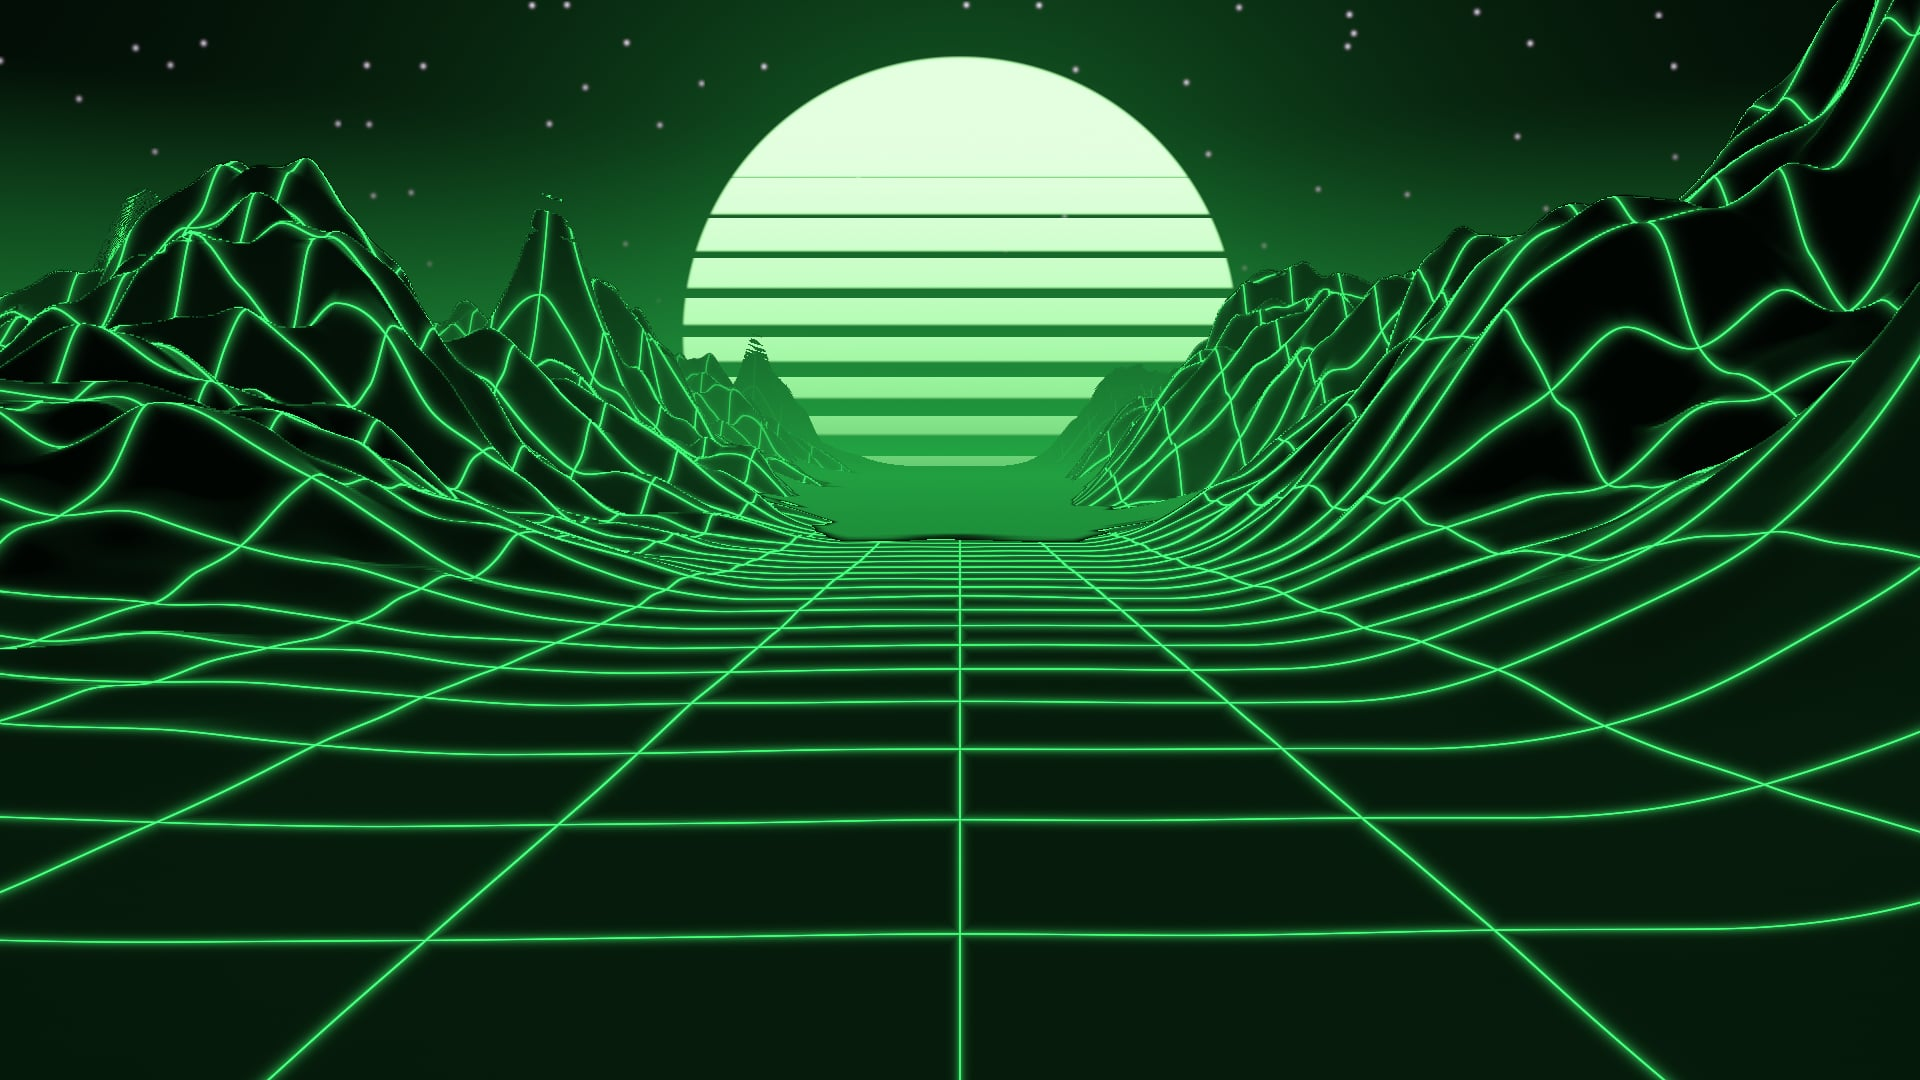
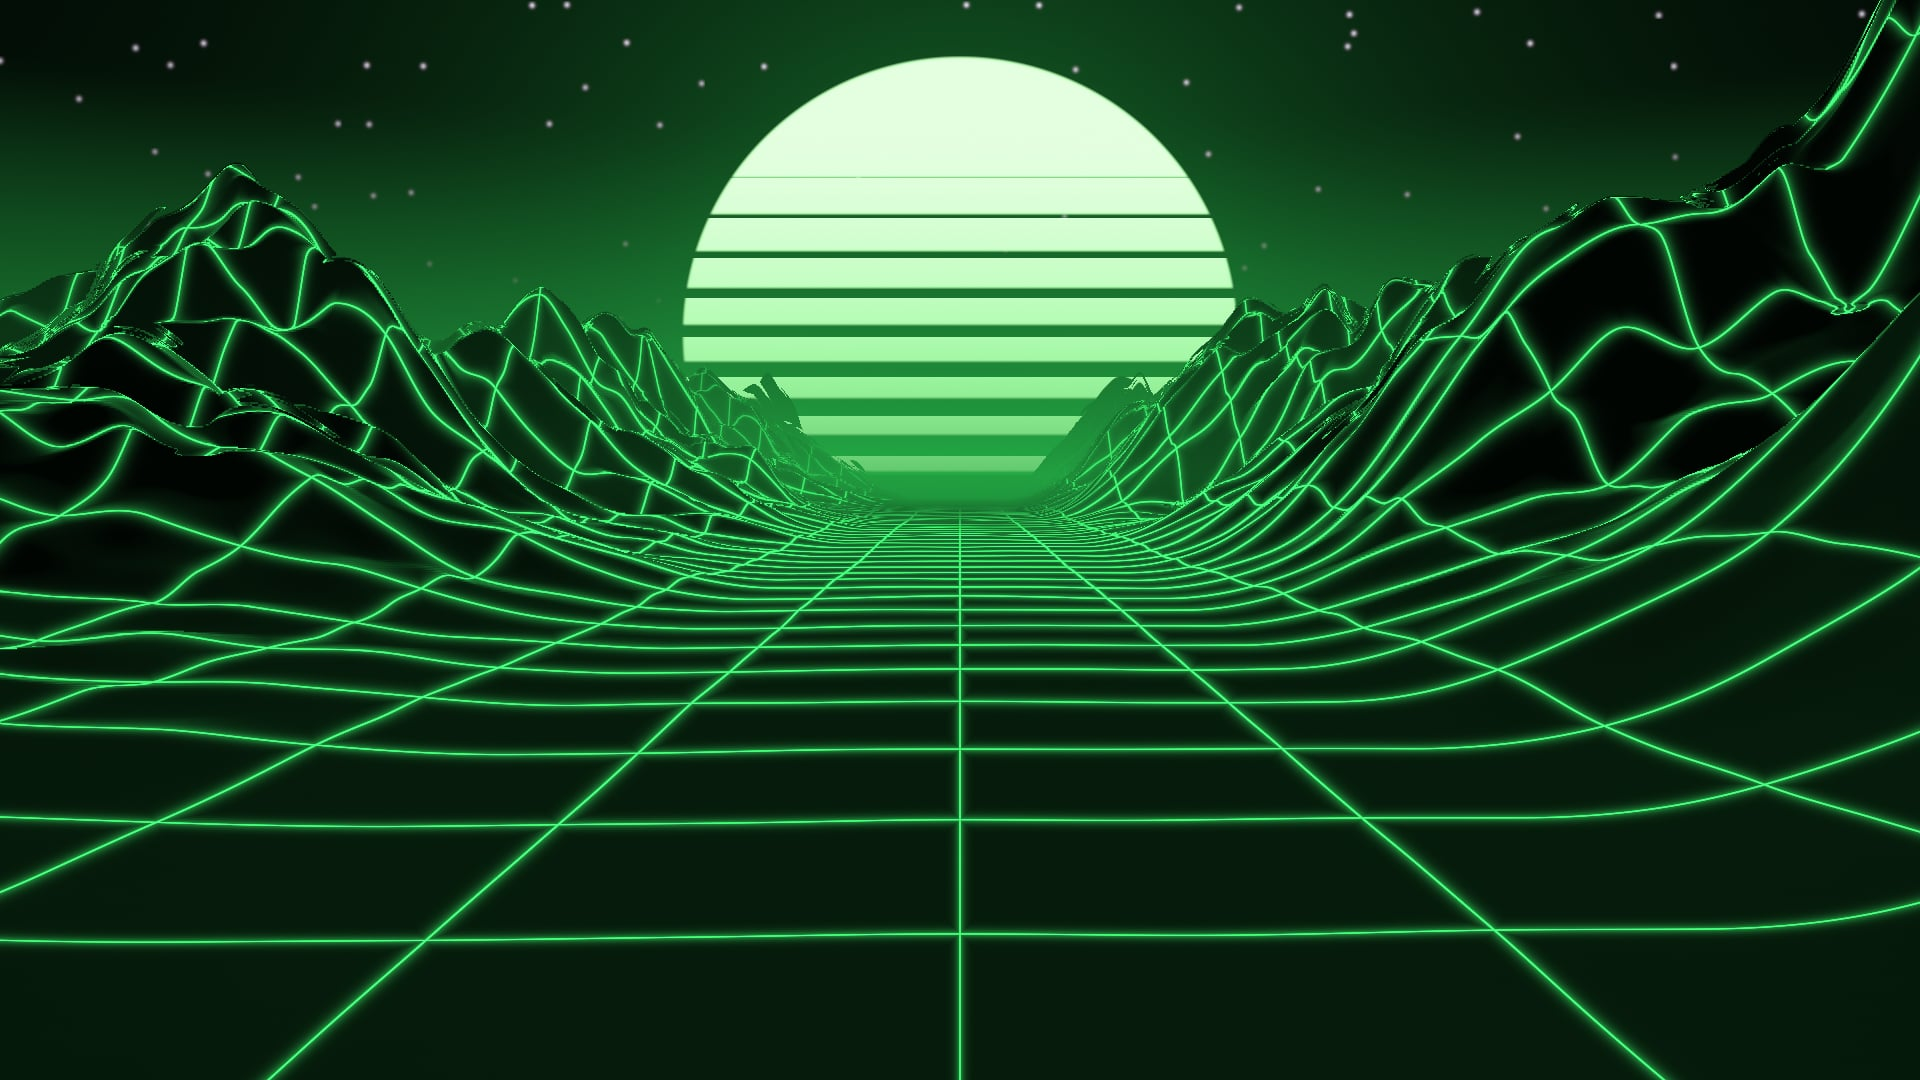
fix(live): Grid Run reaches the far valley and hazes it without a seam

diff --git a/src/live/scenes/grid-run.ts b/src/live/scenes/grid-run.ts
@@ -132,6 +132,9 @@ vec3 scene(vec2 uv) {
   vec3 col = sky(rd);
   float hMax = u_relief * 2.2 + 0.1;
   const float FAR = 75.0;
+  // Haze is complete by FOG_END, a little before FAR, so terrain at the end of the valley meets the
+  // haze drawn for rays that pass FAR (or run out of steps) without a seam.
+  const float FOG_END = 66.0;
 
   // March the heightfield, then refine the crossing inside its bracket.
   float t = 0.05;
@@ -148,15 +151,19 @@ vec3 scene(vec2 uv) {
     ta = t; da = d;
     float px = d * max(-rd.y + 0.5, 0.5) / (t * pixAngle);
     if (px < nearPx) { nearPx = px; nearT = t; }
-    t += max(0.45 * d / max(-rd.y + 0.5, 0.5), 0.01 + t * 0.006);
+    // Steps scale with the height gap over the ray's descent rate, so rays grazing the flat valley
+    // still reach FAR (about 46 steps at worst); the cap limits tunnelling through ridges, and an
+    // overshoot into terrain is caught by the bracket refine below.
+    t += min(max(0.5 * d / max(-rd.y, 0.05), 0.02 + t * 0.01), 0.8 + t * 0.06);
   }
   bool hit = tb > 0.0;
-  // A ray that ran out of steps before reaching FAR is still over terrain; show it as far haze.
+  // A ray that missed below the horizon (past FAR, or out of steps) is over distant terrain: draw it
+  // as full haze, which is also what terrain at FOG_END fades to. The sun sets behind that haze.
   vec3 pe = ro + rd * t;
-  if (!hit && t <= FAR && !(pe.y > hMax && rd.y >= 0.0)) col = skyGradient(rd);
+  if (!hit && (rd.y < 0.0 || (t <= FAR && pe.y <= hMax))) col = skyGradient(rd);
   // Sky pixels that grazed a ridge take part of the ridge's dark face, which softens the silhouette.
   if (!hit) {
-    vec3 ridge = mix(toLinear(u_bg) * 0.35, skyGradient(rd), smoothstep(18.0, FAR, nearT));
+    vec3 ridge = mix(toLinear(u_bg) * 0.35, skyGradient(rd), smoothstep(14.0, FOG_END, nearT));
     col = mix(col, ridge, 1.0 - smoothstep(0.0, 1.0, nearPx));
   }
   if (hit) {
@@ -195,7 +202,7 @@ vec3 scene(vec2 uv) {
     vec3 gridCol = toLinear(u_grid);
     col = face + gridCol * (line * 1.6 + halo) * fade;
     // Distance haze into the horizon glow.
-    float fog = smoothstep(14.0, FAR * 0.92, t);
+    float fog = smoothstep(14.0, FOG_END, t);
     col = mix(col, skyGradient(rd), fog);
   }
 
